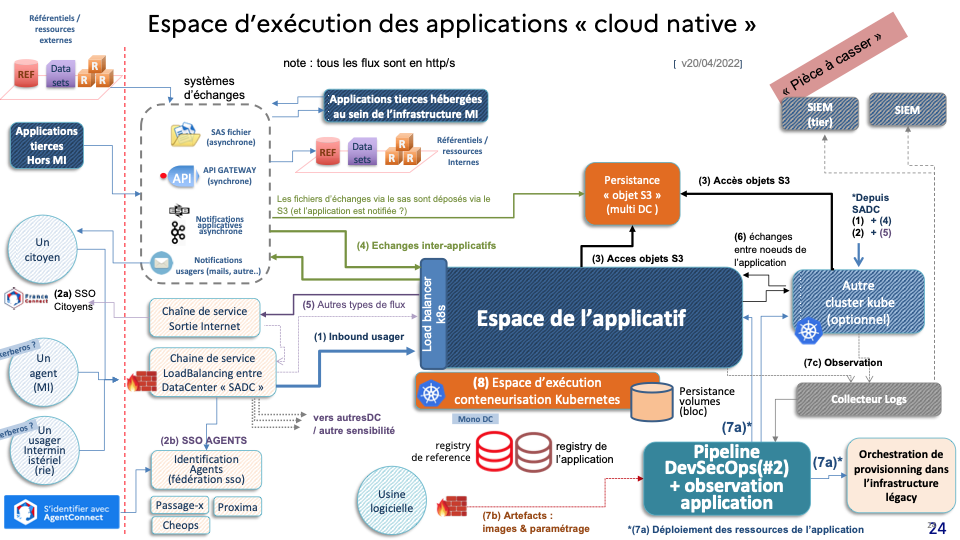
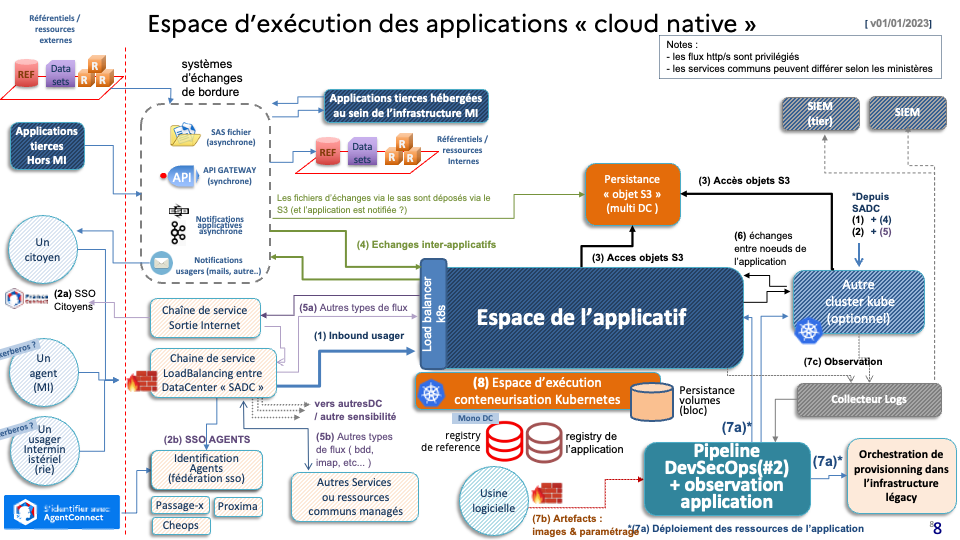
mise à jour 9.01.23 suite à commentaire revue
précision sur l'offre cloud pi ( cloud pi native est une nouvelle offre )
mise à jour schéma d'intégration en intégrant les services communs et managés.
Ajout mention sur le type d'audience
Précision sur l'accès aux environnement pour les développeurs

diff --git a/README.md b/README.md
@@ -5,20 +5,20 @@ Cadre de Cohérence Technique (CCT)
 
 Volet  : Cloud π Native  à portée interministérielle
 
-Version : Pour appel à commentaire initial
-Date : 05/12/2022
+Version : alpha.V1
+Date : 13/01/2021
 Auteur : Direction du numérique Ministère de l’Intérieur
 ``````
 # CCT-Cloud-Native, Introduction.
 
-Le présent volet, du cadre de cohérence technique Cloud Pi Native, concerne la conception et l’hébergement d’applications s’exécutant côté serveur. Une offre de service à portée interministérielle conforme et soutenant ce cadre est mise à disposition des développeurs.
+Le présent volet, du cadre de cohérence technique Cloud Pi Native, s’adresse aux développeurs, architectes et en général aux acteurs gérant l’élaboration et le maintien de systèmes numériques. Le lecteur est invité à se former sur les sujets abordés.
 
-Cette offre s'appuie sur l’opportunité technologique d’orchestration native de conteneurs Kubernetes, couplée à une double chaîne de livraison logicielle en continu dite DevSecOps :  primaire (pour le développeur) et secondaire (pour l'homologation en continue et la dépolution ).
-Cet ensemble s'inscrit dans le cadre de la doctrine Cloud au centre de l’État.
+Ce volet est en lien avec la nouvelle offre proposée par le ministère de l’intérieur Cloud Pi Native. Cette offre inclut des services mis en cohérence : un orchestrateur DevSecOps à 2 étapes permettant d’accélérer la production et l’homologation, une offre d’hébergement kubernetes sécurisée (sécable) et des charts / operators kubernetes communautaires.
 
-La conformité à ce cadre est fortement recommandée. Le respect de ce cadre permet à la direction d’application l’usage du socle de déploiement et de sécurité Cloud Pi Native. Ce dernier accélère la livraison d’applications de qualité qui répondent au besoin.
+Le lecteur pressé peut aller directement à la revue des exigences qui sont de 2 natures :   Primordiales, obligatoires dont le non-respect peut entraîner une exclusion administrative dans le cadre d’un marché public et Importantes qui sont recommandées pour maximiser la performance de la conception et du contexte d’organisation avec l’offre.
 
-Des dérogations à ce cadre, dûment justifiées, sont étudiées en comité de gouvernance ad-hoc. Les applications peuvent contribuer via un échange préalable, aux fonctionnalités de l’offre directement via un processus d’intégration en continu.
+Le respect de ce cadre permet à la direction d’application l’usage du socle de déploiement et de sécurité Cloud Pi Native. Ce dernier accélère la livraison d'applications de qualité qui répondent au besoin.
+Les applications peuvent contribuer via un échange préalable, aux fonctionnalités de l’offre directement via un processus d’intégration en continu.
 
 Ce cadre, ainsi que l’offre de services mis à disposition, permet de :
 
@@ -38,15 +38,12 @@ Ce cadre se décline sur les configurations suivantes :
 - l’hébergement d’applications sur les infrastructures internes infogérées par le ministère de l’intérieur ;
 - l’hébergement d’applications sur des infrastructures cloud externes ;
 - l’hébergement d’applications sur des infrastructures Ministérielles dédiées et gérées par l’application.
-- Le cadre de cohérence technique est découpé en 2 parties applicables
+
+Le cadre de cohérence technique est découpé en 2 parties applicables
 - ce document qui présente et explique le présent cadre et les spécificités de l’offre ;
 - le référentiel d’exigences techniques, organisationnelles et administratives.
 
-Le lecteur pressé peut aller directement à la revue des exigences qui sont de 2 natures : 
-- Primordiales, ces exigences sont obligatoires, le non-respect peut entraîner une exclusion administrative dans le cadre d’un marché public 
-- Importantes ce sont des exigences recommandées pour maximiser la performance de la conception et du contexte d’organisation avec le bon usage de kubernetes.
-
-La direction d’application devra valider les conditions générales d’usage de l’offre (CGU) Cloud Pi Native lors de la souscription. Les CGUs reprennent les exigences qui ont été déclinées au sein de l’offre. Le lecteur est invité à vérifier qu’il dispose de la dernière version de ce document ainsi que de la liste d’exigences.
+La direction d’application doit valider les conditions générales d’usage de l’offre (CGU) Cloud Pi Native lors de la souscription. Les CGUs reprennent les exigences qui ont été déclinées au sein de l’offre. Le lecteur est invité à vérifier qu’il dispose de la dernière version de ce document d’explication ainsi que de la liste d’exigences.
 
 Les  différents documents qui constituent le cadre de cohérence technique  :
 - [Lien vers le corps descriptif du CCT ](https://github.com/dnum-mi/CCT-Cloud-Native/blob/main/cct-cloud-native.md)
